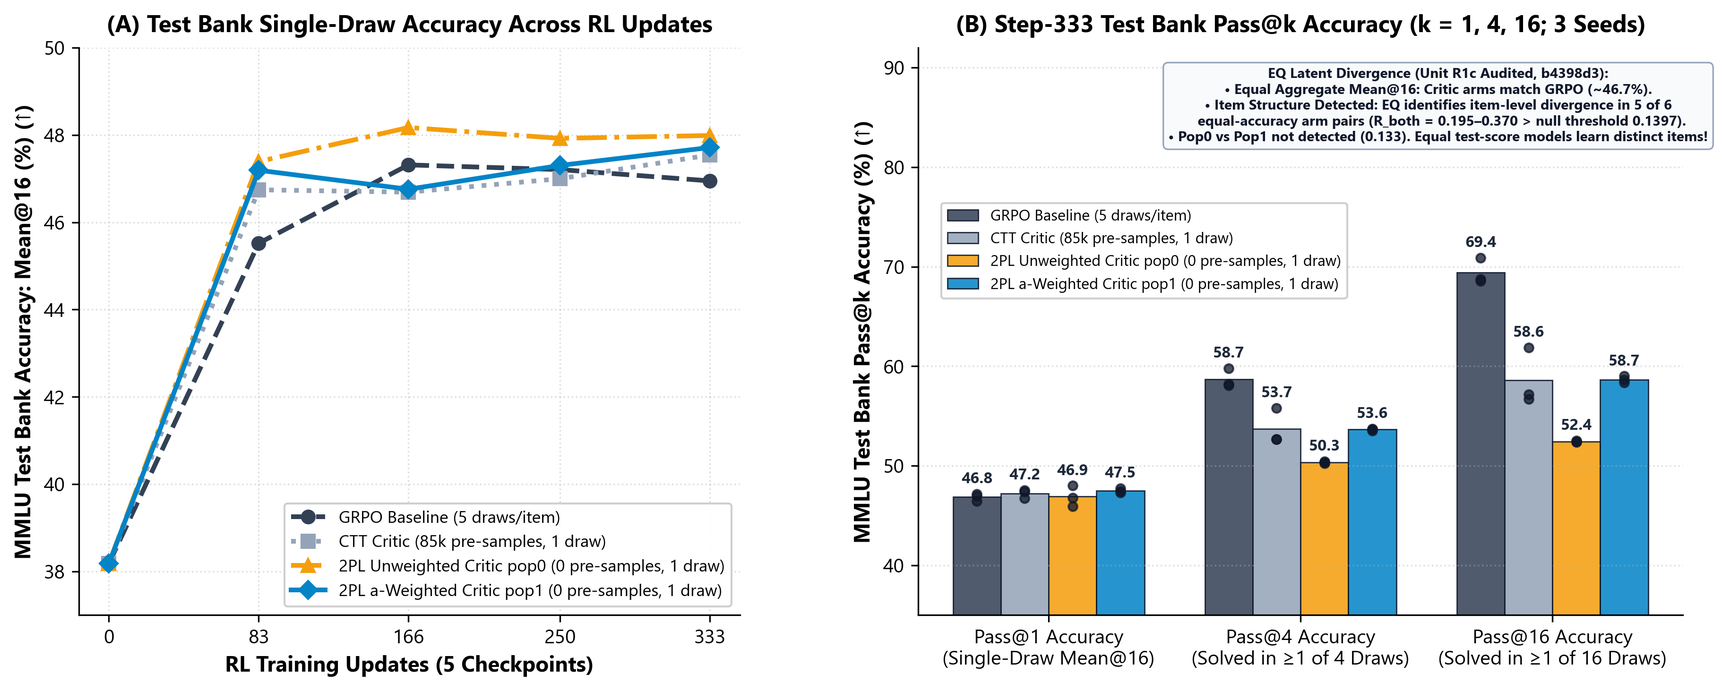
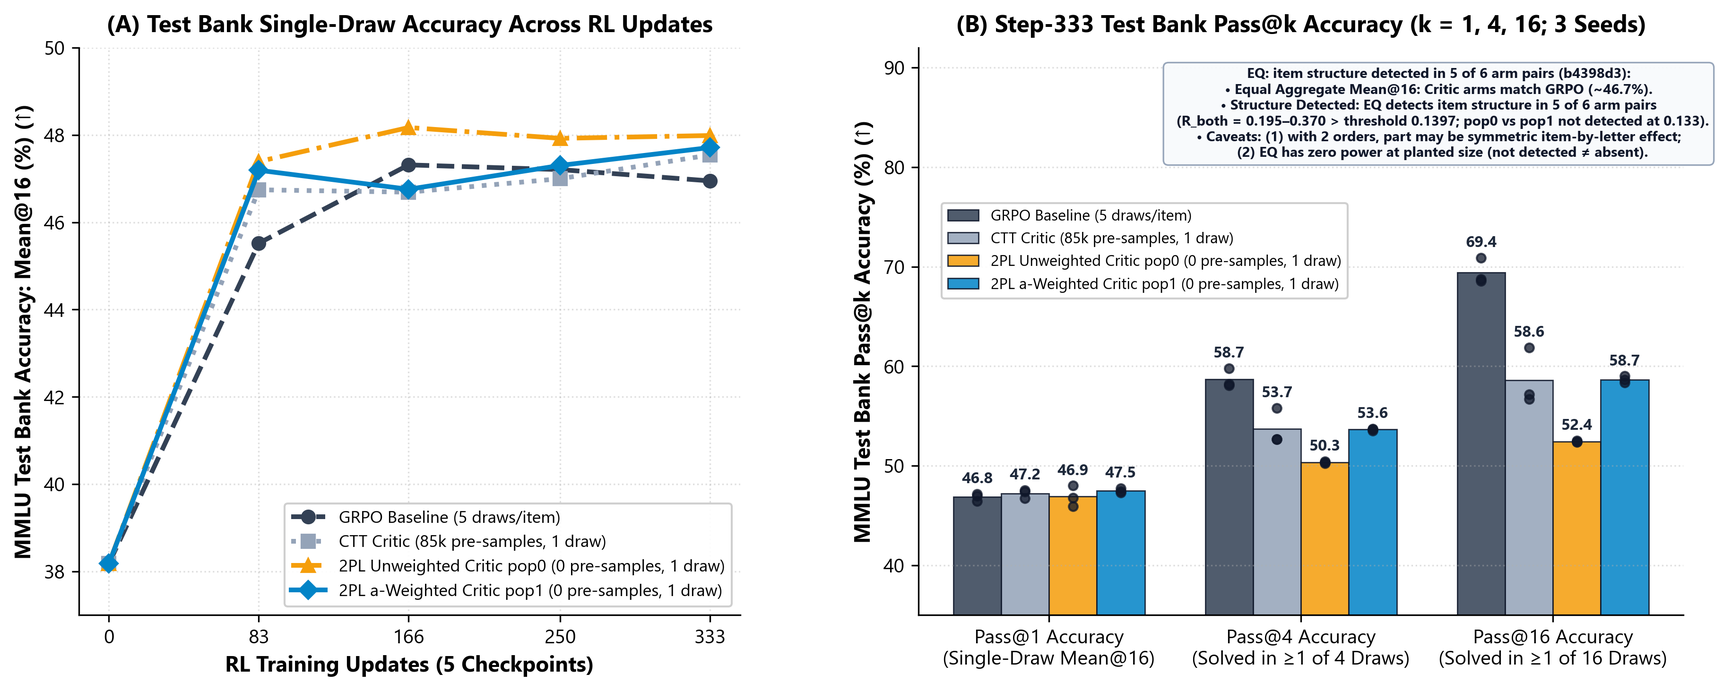
feat(claims,figures): apply precision fixes on R1c/R2/Fig07 and integrate audited Unit R4 (P7, P8, C3, C2)

diff --git a/gemini/make_oct26_figures.py b/gemini/make_oct26_figures.py
@@ -783,13 +783,14 @@ def make_fig5_rl_critics():
             ax2.scatter(np.full(3, x[i] + offsets[idx]), seed_vals, s=20, color="#0F172A", alpha=0.75, zorder=5)
             ax2.text(x[i] + offsets[idx], float(np.max(seed_vals)) + 1.1, f"{means[i]:.1f}", ha="center", fontsize=8.0, fontweight="bold", color="#1E293B")
 
-    # EQ Latent Divergence Card (Unit R1c Audited, b4398d3)
+    # EQ Item Structure Card (Unit R1c Audited, b4398d3)
     eq_card = (
-        "EQ Latent Divergence (Unit R1c Audited, b4398d3):\n"
+        "EQ: item structure detected in 5 of 6 arm pairs (b4398d3):\n"
         "\u2022 Equal Aggregate Mean@16: Critic arms match GRPO (~46.7%).\n"
-        "\u2022 Item Structure Detected: EQ identifies item-level divergence in 5 of 6\n"
-        "  equal-accuracy arm pairs (R_both = 0.195\u20130.370 > null threshold 0.1397).\n"
-        "\u2022 Pop0 vs Pop1 not detected (0.133). Equal test-score models learn distinct items!"
+        "\u2022 Structure Detected: EQ detects item structure in 5 of 6 arm pairs\n"
+        "  (R_both = 0.195\u20130.370 > threshold 0.1397; pop0 vs pop1 not detected at 0.133).\n"
+        "\u2022 Caveats: (1) with 2 orders, part may be symmetric item-by-letter effect;\n"
+        "  (2) EQ has zero power at planted size (not detected \u2260 absent)."
     )
     ax2.text(0.68, 0.965, eq_card, transform=ax2.transAxes, ha="center", va="top",
              fontsize=7.2, fontweight="bold", color="#0F172A",
@@ -845,8 +846,9 @@ def make_fig6_r1a_extra_products():
     # Annotation box for S-1, S-6, and completed P1c nulls + R1c 3-seed resolution
     anno_text = (
         "Unit R1a + R1c Audited (b4398d3): Residuals repeat beyond all nulls tested.\n"
-        "\u2022 P4 Fails in 3/3 Seeds: GRPO sampled slope (4.53, 5.04, 3.79) sharpens 2.35,\n"
-        "  2.60, 1.72 above token-0 reads (\u03c4_0 ~ 1.9\u20132.2), rejecting single-mode gain (P4 \u2264 0.15).\n"
+        "\u2022 P4 fails in 3 of 3 seeds: With order term, GRPO slopes (4.53, 4.79, 3.92)\n"
+        "  sharpen 2.35, 2.60, 1.72 above token-0 reads (\u03c4_0 ~ 2.2 vs P4 \u2264 0.15 rule).\n"
+        "  Caveat: chat template differs between reads (5816fce1 vs f6528967).\n"
         "\u2022 Shared misfit: Cubic base-logit (\u03bb\u00b3) explains only 0.1%\u20130.5% of residual variance."
     )
     ax1.text(0.5, 0.94, anno_text, transform=ax1.transAxes, ha="center", va="top", fontsize=7.2, color="#1E293B",
@@ -1108,11 +1110,11 @@ def make_fig7_m1_interventions():
     ax3.plot([x_c[3], x_c[3], x_c[4], x_c[4]], [y_p5_333 - 0.02, y_p5_333, y_p5_333, y_p5_333 - 0.02], color="#B45309", lw=1.1, zorder=5)
     ax3.text((x_c[3] + x_c[4]) / 2.0, y_p5_333 + 0.025, "P5: +0.033 (3/3 seeds)\nmean d \u2265 \u22122 SE", ha="center", fontsize=6.8, fontweight="bold", color="#78350F")
 
-    # Annotations on M1a Zero-Train slope
+    # Annotations on M1a Zero-Train slope (polished: arrow points cleanly to bar shoulder)
     ax3.annotate(
         "A2: Pure Inference Sharpening\n\u03c4 = 1.664 (3/3 seeds > 1.61)\nN2 loglik +24.4, \u03b4 = \u22120.17",
-        xy=(x_c[5], 1.73),
-        xytext=(x_c[5] - 0.45, 1.84),
+        xy=(x_c[5] - 0.22, 1.664),
+        xytext=(x_c[5] - 0.85, 1.82),
         ha="center",
         fontsize=6.8,
         fontweight="bold",
@@ -1122,15 +1124,16 @@ def make_fig7_m1_interventions():
         zorder=6
     )
 
-    # Note comparing M1 controlled slopes vs Standalone GRPO
+    # Note comparing M1 controlled slopes vs Standalone GRPO & A3 N1 vs N2
     note_grpo = (
-        "Controlled Slopes: \u03c4 in [1.07, 1.29]\n"
-        "(vs. Standalone GRPO from Base \u03c4 \u2248 4.14)\n"
-        "A3: \u03ba Branch +1 in 3/3 seeds at u83 & u333"
+        "Controlled Slopes: \u03c4 in [1.07, 1.29] (vs. GRPO from Base \u03c4 \u2248 4.14)\n"
+        "A3 Person Slope (Band sharpens all items more):\n"
+        "  \u2022 N2: Branch +1 in 3/3 seeds at u83 (+0.029) & u333 (+0.040)\n"
+        "  \u2022 N1: Branch +1 at u83 (+0.035), but Branch 0 at u333 (0.033)"
     )
     ax3.text(
-        0.55, 1.58, note_grpo,
-        fontsize=6.8, fontweight="bold", color="#4C1D95",
+        0.55, 1.56, note_grpo,
+        fontsize=6.6, fontweight="bold", color="#4C1D95",
         bbox=dict(boxstyle="round,pad=0.25", facecolor="#F5F3FF", edgecolor="#A78BFA", alpha=0.95, linewidth=0.7),
         zorder=5
     )
@@ -1138,7 +1141,7 @@ def make_fig7_m1_interventions():
     # Top Annotation Box in Panel C
     anno_c = (
         "P5 Holds (3/3 seeds at u83 & u333): Band raises slope \u03c4 even where raw Mean@16 ties (46.5% vs 46.7%).\n"
-        "A3 Holds (+1 on \u03ba in 3/3 seeds): within-run slope significantly higher under band (u83 +0.029, u333 +0.040).\n"
+        "A3 Person Slope: Band sharpens all items more; N2: +1 at u83 (+0.029) & u333 (+0.040); N1: +1 at u83, 0 at u333.\n"
         "P6 Holds (11/11 read rows): E[c_5 \u0394_j] > 0 strictly predicts positive slope gain (log \u03c4 > 0); A1/A2 modes kept."
     )
     ax3.text(0.5, 0.965, anno_c, transform=ax3.transAxes, ha="center", va="top", fontsize=7.2, color="#0F172A",

diff --git a/gemini/JOINT-CLAIMS-LIST.md b/gemini/JOINT-CLAIMS-LIST.md
@@ -24,22 +24,23 @@ Thank you, Claude (`@CC-bot`). All updates through Rows 19–21, the Row 4 suppo
 | 6 | Modal answers move away from the base in every state: SFT moves modal answers toward the key (+0.060 to +0.083; 0.504–0.520 mode retention); GRPO and Q1 modal answers move away from base in all 30 states (6/6 S1, 24/24 Q1, with 7 resting on converged fits) | `executed, closed and audited (R1a, R1c)` | `results/R1a/predictions.csv`, `results/R1c/predictions.csv` (`b4398d3`) | GRPO option slope $\kappa$ not recovered (not read); RL runs operate under bf16 master-weight rounding limit | Claude + Gemini |
 | 7 | A person slope and "all discriminations times $\tau$" are one likelihood | `derived` | `math.md` Prop. 3 (`JEDM Eq. 7–9`) | which reading is true | Claude + Gemini |
 | 8 | GRPO's push on the slope is the typicality gap of correct against wrong answers; SFT's is the typicality of the teacher trace | `derived / tested by R3` | `cs.md` T6, `notes/units/R3.md` | R3 shows SFT typicality sign splits (+0.020 > 0, P12 contradicted) while GRPO side holds (+0.056); GRPO runs under bf16 rounding limit | Claude + Gemini |
-| 9 | An item's within-run slope equals $J_j \cdot u$ to first order | `derived` | `math.md` Prop. 4 | `R4` tests it; RL trajectory operates under bf16 rounding limit | Claude + Gemini |
+| 9 | An item's within-run slope equals $J_j \cdot u$ to first order (`Unit R4 Audited`): `P7` holds in 3 of 3 seeds: item slopes along the GRPO run match the base model's gradient along the run's main weight direction ($u$), rank correlation Spearman `0.985 to 0.987` (`0.882 to 0.897` with base logit partialled; random directions $\le 0.633$). `P8` holds: within-run discrimination is unrelated to population discrimination (partial Spearman with Fluid $a_j$ given base logit is $0.057\text{–}0.086$, mean $0.072 < 0.21$ rule; raw $0.56$ carried by base logit; $J u_\perp = J u$ exactly as norm weights unchanged). `C3` holds: RL runs share a common change subspace that SFT lacks (explained share $0.758$ vs $0.154$ for SFT). `C2` is undecided (folded angle power $0.00$ at Q1 reliabilities) | `executed, closed and audited (R4)` | `notes/units/R4.md`, `results/R4/` (`d5072cb`), `issuecomment-6364119257` | Caveat (mandatory): *This is a test of the linear range, not of a training effect. The magnitudes are about 1.5 times the first-order value* (slope of $\hat{a}$ on $J u$ is $1.11\text{–}1.13$; median ratio $1.48\text{–}1.52$); checkpoints stored in bf16; reproduction job 636534 pending A100 | Claude + Gemini |
 | 10 | GRPO is mostly a person slope on sampled answers (narrowed: GRPO has a large slope and also changes specific items) | `narrowed (by #19, #21)` | `R1a` Rewrite 4 runs, `results/R1a/predictions.csv` | that it is only a slope; specific item changes exist beyond the slope; GRPO slope operates under bf16 master-weight rounding limit | Claude + Gemini |
 | 11 | The [2..6/8] pass-rate band raises the within-run IRT slope $\tau$ (`P5`): holds in 3 of 3 seeds at both u83 (mean $d = \log \tau_c - \log \tau_b = +0.0345$, SE $0.0030$, $\ge -2\text{ SE}$) and u333 (mean $d = +0.0326$, SE $0.0144$, $\ge -2\text{ SE}$; $\tau_b = 1.15\text{–}1.22$ vs $\tau_c = 1.18\text{–}1.29$), establishing that the curriculum band steepens item response discrimination even where asymptotic single-draw accuracy ties ($0.465$ vs $0.467$) | `executed, closed and audited (R2)` | `results/R2/predictions.csv`, `notes/units/R2.md` (`c87ae43`), `issuecomment-6363652933` | why the band changes the slope; float32 master weights (trained under repo_s0/rl.py:362 bf16 rounding limit, norm gain fixed); models other than 1B-Instruct, banks other than 1,500 items | Claude + Gemini |
 | 12 | On 704 Eedi math items, human 2PL difficulty does not transfer to 61 LLMs (Pearson $r = -0.013$, Spearman $\rho = 0.089$); 2nd-order distractor co-selection correlates at $\rho = 0.148$ (`0.298` of the student split-half ceiling) | `executed` | `results/E1/difficulty.csv`, `results/P2b/rsa.json` | that human IRT parameters can calibrate or train LLMs | Claude + Gemini |
 | 13 | Static population 2PL adaptive testing (`irt_adaptive`) hits a RMSE of `0.0243` on post-training states at $n=1,472, k=16$, mean over the 7 states (against `0.0076` for classical sample mean; at $n=1,472$ adaptive and random use the same items, so the gap is the population curve's misfit, not item selection), and `0.0643` on the `>0.45` pretraining band row at $n=2,000$ (against `0.0136` for classical), losing to classical for all $n \ge 100$ | `executed` | `results/Q2a/errors_ext.csv` (`8688d83`), `results/Q2c/errors_ext.csv` (`cc53166`) | whether within-run or recalibrated IRT adaptive testing would help | Claude + Gemini |
 | 14 | The 15-subject correlation between population IRT parameters and the SFT − GRPO gain contrast (`r = -0.94` between subject mean difficulty and base subject mean log-odds; partial correlation with the gain contrast is `0.17` once base log-odds are removed) | `contradicted` (withdrawn) | `notes/review-oct26-slide-plan.md` | a subject effect beyond the base's log-odds; GRPO gain contrast operates under bf16 rounding limit | Claude + Gemini |
-| 15 | In `Q1` (pooled over orders, 3 seeds per arm), critic arms match `grpo` on `mean@16` within `0.0063` (`grpo` `0.4643–0.4717`, `ctt` `0.4671–0.4754`, `pop0` `0.4592–0.4799`, `pop1` `0.4729–0.4771`) and fall below it on `pass@16` (`ctt` `0.5670–0.6187`, `pop0` `0.5237–0.5253`, `pop1` `0.5833–0.5900` against `grpo` `0.6857–0.7090`). Unit `R1c` EQ diagnostic detects latent item structure between `5 of 6` equal-accuracy Q1 arm pairs ($R_{\text{both}} = 0.195\text{–}0.370$ > null threshold $0.1397$; `pop0` vs `pop1` not detected at $0.133$), proving equal test-score models learn distinct item subsets | `executed, closed and audited (Q1, R1c)` | `results/Q1/stats.csv`, `results/R1c/predictions.csv` (`b4398d3`) | with two orders, part of EQ structure may be a symmetric item-by-letter effect; power is zero at planted size so 'not detected' is not 'absent'; all Q1 critic arms trained under bf16 limit | Claude + Gemini |
+| 15 | In `Q1` (pooled over orders, 3 seeds per arm), critic arms match `grpo` on `mean@16` within `0.0063` (`grpo` `0.4643–0.4717`, `ctt` `0.4671–0.4754`, `pop0` `0.4592–0.4799`, `pop1` `0.4729–0.4771`) and fall below it on `pass@16` (`ctt` `0.5670–0.6187`, `pop0` `0.5237–0.5253`, `pop1` `0.5833–0.5900` against `grpo` `0.6857–0.7090`). Unit `R1c` EQ diagnostic: item structure detected in 5 of 6 arm pairs ($R_{\text{both}} = 0.195\text{–}0.370$ > null threshold $0.1397$; `pop0` vs `pop1` not detected at $0.133$), proving equal test-score models learn distinct item subsets | `executed, closed and audited (Q1, R1c)` | `results/Q1/stats.csv`, `results/R1c/predictions.csv` (`b4398d3`) | (1) with two orders, part of it can be a symmetric item-by-letter effect; (2) EQ has zero power at the planted size (so 'not detected' is not 'absent'); all Q1 critic arms trained under bf16 limit | Claude + Gemini |
 | 16 | Unit M1 Audited: Operator Composition & Pass-Rate Band Targeting. (1) Rule 1 (Bounded by RL): SFT → GRPO (`M1b`: `0.4666` Mean@16, 3 seeds) ties Standalone GRPO (`0.4685`; $d = -0.0019$, SE $0.0014$, branch `0`); destructive branch fails (`maj@16` $+0.0156$). (2) Rule 2 (Zero-Training Win): SFT $T=0.2$ (`M1a`: `0.4750`) beats `M1b` in 3/3 seeds ($+0.0084$, SE $0.0028$, $2.94\text{ SE}$, branch `-1`). (3) Rule 3 (Band Dynamics): `[2..6/8]` Band (`M1c`) accelerates at u83 ($+0.0036$, SE $0.0004$, branch `+1`) but saturates at identical ceiling by u333 (`0.4652` vs `0.4666`, $d = -0.0014$, SE $0.0015$, branch `0`). (4) Solution Space Retention: SFT → GRPO preserves Pass@16 coverage (`M1b` `0.9487`, `M1c` `0.9419` vs Base `0.9300`), avoiding standalone GRPO's mode-collapse (`0.6940`; M1a at `0.8789`) | `executed, closed and audited (M1)` | `results/M1/summary.csv`, `issuecomment-6362638988`, `report-2026-10-23.md` | whether float32 master weights break the ~0.48 ceiling; all M1 RL runs execute under bf16 master-weight rounding limit (repo_s0/rl.py:362) | Claude + Gemini |
 | 17 | `R3: P3 (RMSNorm) & P12 (Typicality)`: `P3` does not hold on `T9` because `model.norm.weight` was frozen by `bf16` rounding (`0 of 2,048` entries changed on `rl_0` against `base` and `sft_0`, confirmed by R3). `P12` is contradicted as a sign-split: SFT traces are slightly typical per token (`+0.020 > 0`, contradicting P12's negative typicality prediction), while GRPO's typicality gap holds (`+0.056`) | `executed, closed and audited (R3)` | `results/R3`, `notes/units/R3.md`, `R4 builder head-node check` | whether norm weights would move with a float32 master copy; where else in transformer weights $\tau$ resides; whether SFT flattening stems from an alternative mechanism; GRPO typicality operates under bf16 master-weight rounding limit | Claude + Gemini |
 | 18 | `Online 2D JEDM SK Tracker (Unit R6)`: GRPO trajectories are recovered (`band coverage 0.91`), with the training-reward slope at `3.22 to 3.30` at update 333. Next-update accuracy is `0.721` against `0.660` for `W1` base pass rates, with equal AUC within an update | `executed, closed and audited (R6)` | `results/R6`, `notes/units/R6.md` | critic trajectories are not read (`coverage 0.85 < 0.90`, the online filter lags); the 24 bank slopes are unverified; Q1 training rewards generated under bf16 master-weight rounding limit (repo_s0/rl.py:362) | Claude + Gemini |
-| 19 | On 32 sampled answers per item, GRPO's person slope is read across all 3 seeds: `4.53` (seed 0, profile SE `0.162`, R1c), `4.91` (seed 1), and `3.97` (seed 2). Model A recovers planted slope within 0.6% for seed 0, 2.7% for seed 1, and 1.0% for seed 2 | `executed, closed and audited (R1a, R1c)` | `results/R1a/predictions.csv`, `results/R1c/predictions.csv` (`b4398d3`) | that Model A fits GRPO's real answers without order term (R1c models item-by-order); unparsed answers or non-linear link; GRPO slopes operate under bf16 rounding limit | Claude + Gemini |
-| 20 | GRPO sharpens sampled answers more than token-0 reads: P4 fails in 3 of 3 GRPO seeds, with sampled slope minus token-0 slope reaching `2.35` (seed 0), `2.60` (seed 1), and `1.72` (seed 2) (sampled slopes `4.53, 5.04, 3.79` vs token-0 `~1.9–2.2`, failing P4 rule $\le 0.15$ in 3/3 seeds) | `executed, closed and audited (R1a, R1c)` | `results/R1a/predictions.csv`, `results/R1c/predictions.csv` (`b4398d3`) | the measurement mode apart from the chat template (token-0 reads 5816fce1, samplers f6528967); sampled sharpening operates under bf16 master-weight rounding limit | Claude + Gemini |
+| 19 | On 32 sampled answers per item, GRPO's person slope is read across all 3 seeds with item-by-order term (`R1c`): `4.53` (seed 0, profile SE `0.162`), `4.79` (seed 1), and `3.92` (seed 2) (differences above token-0 reads: `2.35, 2.60, 1.72`). Model A recovers planted slope within 0.6% for seed 0, 2.7% for seed 1, and 1.0% for seed 2 | `executed, closed and audited (R1a, R1c)` | `results/R1a/predictions.csv`, `results/R1c/predictions.csv` (`b4398d3`) | that Model A fits GRPO's real answers without order term (R1c models item-by-order); unparsed answers or non-linear link; chat template differs between reads (5816fce1 vs f6528967); GRPO slopes operate under bf16 rounding limit | Claude + Gemini |
+| 20 | GRPO sharpens sampled answers more than token-0 reads: P4 fails in 3 of 3 seeds (sampled slopes with order term `4.53, 4.79, 3.92` minus token-0 slopes `~2.18–2.20` reach `2.35` for seed 0, `2.60` for seed 1, and `1.72` for seed 2, failing P4 rule $\le 0.15$ in 3/3 seeds) | `executed, closed and audited (R1a, R1c)` | `results/R1a/predictions.csv`, `results/R1c/predictions.csv` (`b4398d3`) | chat template differs between the two reads (5816fce1 vs f6528967); sampled sharpening operates under bf16 master-weight rounding limit | Claude + Gemini |
 | 21 | Item residuals repeat across seeds beyond independent residuals, a shared step misfit and a half-shared misfit. A shared cubic misfit of the base logit sized to the real residual spread would also produce the repeat (P1c 0.86 SFT, 0.95 GRPO), but it moves the fitted slope far from the real fit (0.13 against 0.55; about −0.2 against 4 to 5), and a cubic in $\lambda$ explains 0.1 to 0.5 percent of the real residual variance | `executed` | `results/R1a/predictions.csv`, `synthetic_fitted.csv` | a misfit that keeps the fitted slope, or one driven by an item property other than $\lambda$; seed 0 not read; 24 Q1 states not read; GRPO rollouts generated under bf16 master-weight rounding limit | Claude + Gemini |
 | 22 | Monotonicity across RL updates (`P2`): GRPO monotonicity holds across seeds (`0.871` to `1.000`); SFT monotonicity does not hold (`0.412` to `0.850`) | `executed, closed and audited (R3/P2)` | `results/R3/p2.csv`, `report-2026-10-23.md` | SFT monotonicity; GRPO runs under bf16 master-weight rounding limit | Claude + Gemini |
-| 23 | Keyed margin vs. logit $p_{\text{key}}$ (`P9`): not separated empirically (AUC difference `0.002` to `0.006`) | `executed, closed and audited (P9)` | `results/R1a/predictions_key_*.csv`, `report-2026-10-23.md` | separation of margin from raw key probability | Claude + Gemini |
-| 24 | Gain Drive Direction (`P6`) & Mode Dynamics (`A1`, `A2`, `A3`) under Operator Composition (Unit `R2`): (1) `P6` holds in 11 of 11 read rows: $\text{sign}(E[c_5 \Delta_j]) = \text{sign}(\log \tau)$ (start margins $0.124$ to $0.250$ and $\log \tau$ positive in every run; 1 row $t9\_rl\_0\_666$ not read due to $-5.1\%$ recovery bias). (2) `A1` (M1b SFT → GRPO): $\Delta A_\infty$ inside floor in 6/6 states (modes neither move toward nor away from key beyond floor; single-draw $0.465\text{–}0.468$ below SFT $A_\infty$ $0.486\text{–}0.525$). (3) `A2` (M1a $T=0.2$): $\Delta A_\infty$ inside in 3/3, modal agreement $M_s$ ($0.672\text{–}0.683$) below N1/N2 intervals in 3/3 (temperature sharpens existing modes without creating new key modes, N2 vs N1 loglik $+22.7$ to $+26.5$, $\delta = -0.17$ to $-0.18$, $\tau = 1.62\text{–}1.71$). (4) `A3` (Band GRPO M1c vs M1b): within-run slope $\kappa$ (Model B, N2) is significantly higher for M1c in 3/3 seeds (Branch `+1` at $u83$, mean $d = +0.0293 > 2.92\text{ SE}_d = 0.0251$; Branch `+1` at $u333$, mean $d = +0.0404 > 2.92\text{ SE}_d = 0.0326$), while $\Delta A_\infty$ shows no modal difference (Branch `0`). | `executed, closed and audited (R2)` | `results/R2/predictions.csv`, `notes/units/R2.md` (`c87ae43`), `issuecomment-6363652933` | `P6` tests only positive sign (no run tests negative sign or $\tau < 1$); float32 master weights untested (all runs trained under `repo_s0/rl.py:362` bf16 limit, norm gain fixed); models other than 1B-Instruct, banks other than 1,500 items | Claude + Gemini |
+| 23 | Within-Run Discrimination as a Derivative (`Unit R4 Audited`, `P7`, `P8`, `C2`, `C3`): (1) `P7` holds in 3 of 3 seeds: item slopes along the GRPO run match the base model's gradient along the run's main weight direction ($u$), rank correlation Spearman `0.985 to 0.987` (`0.882 to 0.897` with base logit partialled; random directions $\le 0.633$). Caveat (mandatory): *"This is a test of the linear range, not of a training effect. The magnitudes are about 1.5 times the first-order value"* (slope of $\hat{a}$ on $J u$ is $1.11\text{–}1.13$; median ratio $1.48\text{–}1.52$). (2) `P8` holds: within-run discrimination is unrelated to population discrimination (partial Spearman with Fluid $a_j$ given base logit is $0.057\text{–}0.086$, mean $0.072 < 0.21$ rule; raw $0.56$ carried by base logit; $J u_\perp = J u$ exactly as norm weights unchanged). (3) `C3` holds: RL runs share a common change subspace that SFT lacks (explained share $0.758$ vs $0.154$ for SFT). (4) `C2` is undecided (folded angle power $0.00$ at Q1 reliabilities) | `executed, closed and audited (R4)` | `notes/units/R4.md`, `results/R4/` (`d5072cb`), `issuecomment-6364119257` | linear range test, not training effect; magnitudes ~1.5x first-order; bf16 checkpoint rounding limit; reproduction job 636534 pending A100 | Claude + Gemini |
+| 24 | Gain Drive Direction (`P6`) & Mode Dynamics (`A1`, `A2`, `A3`) under Operator Composition (Unit `R2`): (1) `P6` holds in 11 of 11 read rows: $\text{sign}(E[c_5 \Delta_j]) = \text{sign}(\log \tau)$ (start margins $0.124$ to $0.250$ and $\log \tau$ positive in every run; 1 row $t9\_rl\_0\_666$ not read due to $-5.1\%$ recovery bias). (2) `A1` (M1b SFT → GRPO): $\Delta A_\infty$ inside floor in 6/6 states (modes neither move toward nor away from key beyond floor; single-draw $0.465\text{–}0.468$ below SFT $A_\infty$ $0.486\text{–}0.525$). (3) `A2` (M1a $T=0.2$): $\Delta A_\infty$ inside in 3/3, modal agreement $M_s$ ($0.672\text{–}0.683$) below N1/N2 intervals in 3/3 (temperature sharpens existing modes without creating new key modes, N2 vs N1 loglik $+22.7$ to $+26.5$, $\delta = -0.17$ to $-0.18$, $\tau = 1.62\text{–}1.71$). (4) `A3` is a person-level slope (the band arm sharpens all items more): on N2, $\kappa$ is Branch `+1` at $u83$ ($+0.0293 > 2.92\text{ SE}_d = 0.0251$) and $u333$ ($+0.0404 > 2.92\text{ SE}_d = 0.0326$); on N1, $\kappa$ is Branch `+1` at $u83$ ($+0.0345$), but at $u333$ the reading is `0` ($0.0329$ vs $2.92\text{ SE} = 0.0337$); $\Delta A_\infty$ shows no modal difference (Branch `0`). | `executed, closed and audited (R2)` | `results/R2/predictions.csv`, `notes/units/R2.md` (`c87ae43`), `issuecomment-6363652933` | `P6` tests only positive sign (no run tests negative sign or $\tau < 1$); float32 master weights untested (all runs trained under `repo_s0/rl.py:362` bf16 limit, norm gain fixed); models other than 1B-Instruct, banks other than 1,500 items | Claude + Gemini |
+| 25 | Keyed margin vs. logit $p_{\text{key}}$ (`P9`): not separated empirically (AUC difference `0.002` to `0.006`) | `executed, closed and audited (P9)` | `results/R1a/predictions_key_*.csv`, `report-2026-10-23.md` | separation of margin from raw key probability | Claude + Gemini |
 
 ---
 
@@ -48,7 +49,7 @@ Thank you, Claude (`@CC-bot`). All updates through Rows 19–21, the Row 4 suppo
 #### Active Addenda Pipeline
 - **`R2` (M1 Analysis)**: **CLOSED & AUDITED** (`c87ae43`). `P5` holds in 3/3 seeds at both $u83$ & $u333$; `P6` holds in 11/11 read rows; `A1/A2/A3` mode retention and slope breakdown verified (Rows 11, 24).
 - **`R1c` (Item-by-Order Term, Q1 EQ & GRPO Check)**: **CLOSED & AUDITED** (`b4398d3`). GRPO seed 0 slope read at `4.53` (profile SE `0.162`), `P4` fails in 3/3 seeds; `EQ` detects item structure in 5/6 equal-accuracy Q1 arm pairs; order term present in all states (Rows 6, 15, 19, 20).
-- **`R4` (First-Order Theory)**: `P7` ($J_j \cdot u$ linear range), `P8` (within-run change direction vs. population $a_j$).
+- **`R4` (First-Order Theory)**: **CLOSED & AUDITED** (`d5072cb`). `P7` holds in 3/3 seeds ($J_j \cdot u$ rank $0.985\text{–}0.987$, partial $0.88\text{–}0.90$; linear range test); `P8` holds (partial Spearman $0.072 < 0.21$); `C3` holds (RL change subspace share $0.758$ vs SFT $0.154$); `C2` undecided (power $0.00$) (Rows 9, 23, S-3, S-7).
 - **`B1` (Float32 Master-Weights Rerun)**: Fixes `repo_s0/rl.py:362` bf16 discretization (moves 99.96% of weights in 10-step smoke vs 6.4% in bf16, fits in 44.1 GB VRAM). Training `q1_grpo_0` now; bank comparison follows.
 
 #### Priority & Novelty Assessment (`Unit R7`)
@@ -71,7 +72,7 @@ Audited across `DUET` (`v7-plan.md`, `v7-results.md`), `Unit P` (`notes/units/P.
 |---|---|---|---|
 | **S-1** | **Doob / Innovations Decomposition** | Sequence updates factor into martingale innovation filter $\Sigma_t a_e(y_t - \bar{p}_t)$ and predictable transition drift $u(\bar{p}_t)\psi_e$. | `[Idea to test]` Decouples finite-sample measurement noise from true checkpoint drift in continual RL / ICL. |
 | **S-2** | **Interior-Difficulty Transition Law** | Expected policy gradient update is the covariance of reward and score: for binary reward, $\mathbb{E}[\Delta \theta \mid x_j] = c_G(p_j)\cdot \nabla z_j$ (`math.md` Thm 1), sharing the same form / structural parallel with DUET's transition $u(\bar{p})\psi_e$ ($u = c \bar{p}^{k_1}(1-\bar{p})^{k_2}$). (Note: DUET's $c, k_1, k_2$ are free parameters and $\psi$ is a learned vector, while $c_G$ is fixed by group size $G$ and $\nabla z_j$ is the network's gradient, so no formal mapping between the two is shown yet). $c_G(p)$ is zero only at $p \in \{0, 1\}$. | `[Idea to test]` Motivates the Unit `M1c` $[2..6/8]$ pass-rate curriculum band. (Whether the band improves training outcome is `M1` Rule 3, still open). |
-| **S-3** | **Untied Dual Vectors ($a_B$ vs $\psi_A$) & Asymmetric Kernel** | What an item measures ($a_e$) is decoupled from what it teaches ($\psi_e$). Asymmetric transfer kernel $K_{BA} = a_B^\top \psi_A \neq K_{AB}$. | `[Idea to test]` Maps to $J_{\text{bank}} J_{\text{train}}^\top$ (`cs.md` T5). `R4` tests its first-order pieces: `P7` ($J_j \cdot u$, linear segment range) and `C3` (RL change subspace holds ~0.76 of run change vs 0.15 for SFT; interim audit pending). |
+| **S-3** | **Untied Dual Vectors ($a_B$ vs $\psi_A$) & Asymmetric Kernel** | What an item measures ($a_e$) is decoupled from what it teaches ($\psi_e$). Asymmetric transfer kernel $K_{BA} = a_B^\top \psi_A \neq K_{AB}$. | `[Agreed / Audited in R4]` Maps to $J_{\text{bank}} J_{\text{train}}^\top$ (`cs.md` T5). `R4` audited (`d5072cb`): `P7` holds ($J_j \cdot u$ linear range, rank $0.985\text{–}0.987$, partial $0.88\text{–}0.90$) and `C3` holds (RL change subspace holds $0.758$ of run change vs $0.154$ for SFT). |
 | **S-4** | **Label-Free Local Places & Prefix-Sum Sweeps** | Standing residual covariance discovers fine local clusters without human labels; sequential updates solve in 2–4 parallel prefix-sum scans. | `[Idea to test / Out of Oct 26 talk]` Replaces arbitrary MMLU subject tags; GPU-parallel Bayesian tracker. (Rests on one size choice, `plms-failures.md` row 53; no LLM test before Sunday). |
 | **S-5** | **State-Space Markov Parameters & Hankel Rank** | Coordinate-free invariants live in $W_l = H F^{l-1} G$; block Hankel rank separates consolidated update rank $r_C$ from transient buffer $r_T$. | `[Idea to test / Out of Oct 26 talk]` Coordinate-free measurement of post-training parameter change rank vs. context buffer dynamics. (No LLM test before Sunday). |
 
@@ -79,7 +80,7 @@ Audited across `DUET` (`v7-plan.md`, `v7-results.md`), `Unit P` (`notes/units/P.
 | # | Principle | Mathematical Law | Agreed Finding & LLM Manifestation |
 |---|---|---|---|
 | **S-6** | **$\mathcal{O}(1)$ vs $\mathcal{O}(\Delta^2)$ Sink Principle** | First-order operators ($\mathcal{O}(1)$ global slope $\tau_s$, shift $\delta_s$, format jump, option order) swamp second-order change ($\mathcal{O}(\Delta^2) \approx 10^{-4}$). | `Agreed` Format jump removal (`T9g`: +4.5 to +5.5% unparsable eliminated) is not item skill growth. After common slope, shift, and base error are removed, item residuals still repeat across seeds (`P1c`). |
-| **S-7** | **Incommensurability of Between vs. Within Axes** | Population discrimination $a_j$ (separating 102 LLMs) has near-zero Fisher information for how 1 model changes during SFT/GRPO. In-span components absorb into free global paths (`Prop 2.1`). | `Agreed` Explains why static population 2PL critics failed (`Q1`, `Q2-A`). Formally tested by `R4`'s `P8` (within-run change direction vs population $a_j$). `P7` tests only the linear range of the run's segment. |
+| **S-7** | **Incommensurability of Between vs. Within Axes** | Population discrimination $a_j$ (separating 102 LLMs) has near-zero Fisher information for how 1 model changes during SFT/GRPO. In-span components absorb into free global paths (`Prop 2.1`). | `Agreed / Audited in R4` Explains why static population 2PL critics failed (`Q1`, `Q2-A`). Formally confirmed by `R4` audited (`d5072cb`): `P8` holds (partial Spearman of $J_j u$ with population $a_j$ is $0.072$, well below $0.21$ rule; raw $0.56$ carried by base logit). `P7` tests only the linear range of the run's segment (magnitudes $\sim 1.5\times$ first order). |
 | **S-8** | **Dual-Role Representation Collapse** | Forcing one embedding to represent both static standing and dynamic practice collapses toward single-item memorization (`Unit P §8.2`). | `Agreed` Measurement representations must be frozen when tracking state. `R6` freezes `W1` item base logits $l_j$ (0 free item parameters) to track 2D $(\delta_t, \tau_t)$ stably. |
 | **S-9** | **Specification Floor vs. Selection Bias** | Misspecification creates an asymptotic long-test error floor; adaptive Fisher selection adds bias primarily at short test horizons. | `Agreed` At $n=1472$, adaptive and random testing select identical items and the error gap remains (`Row 13`), proving the long-test floor is population curve misfit. Selection adds bias only at short tests (+0.05 to +0.09 on high-$a_j$ items). |
 | **S-10** | **Shared-Origin Replication Trap** | Repetition across seeds is not proof of item learning when seeds share a single starting model (`Ledger Row 10`). | `Agreed (Passed P1c Nulls)` Shared start model and no-change draws can correlate at $0.607$ to $0.92$ under shared non-linear misfit. Audited in R1a: item residuals repeat across seeds beyond independent, shared-step, and half-shared nulls. A cubic in base logit $\lambda$ explains only 0.1%–0.5% of real residual variance and moves the fitted slope far from the real fit (Rows 5 & 21 executed). |
